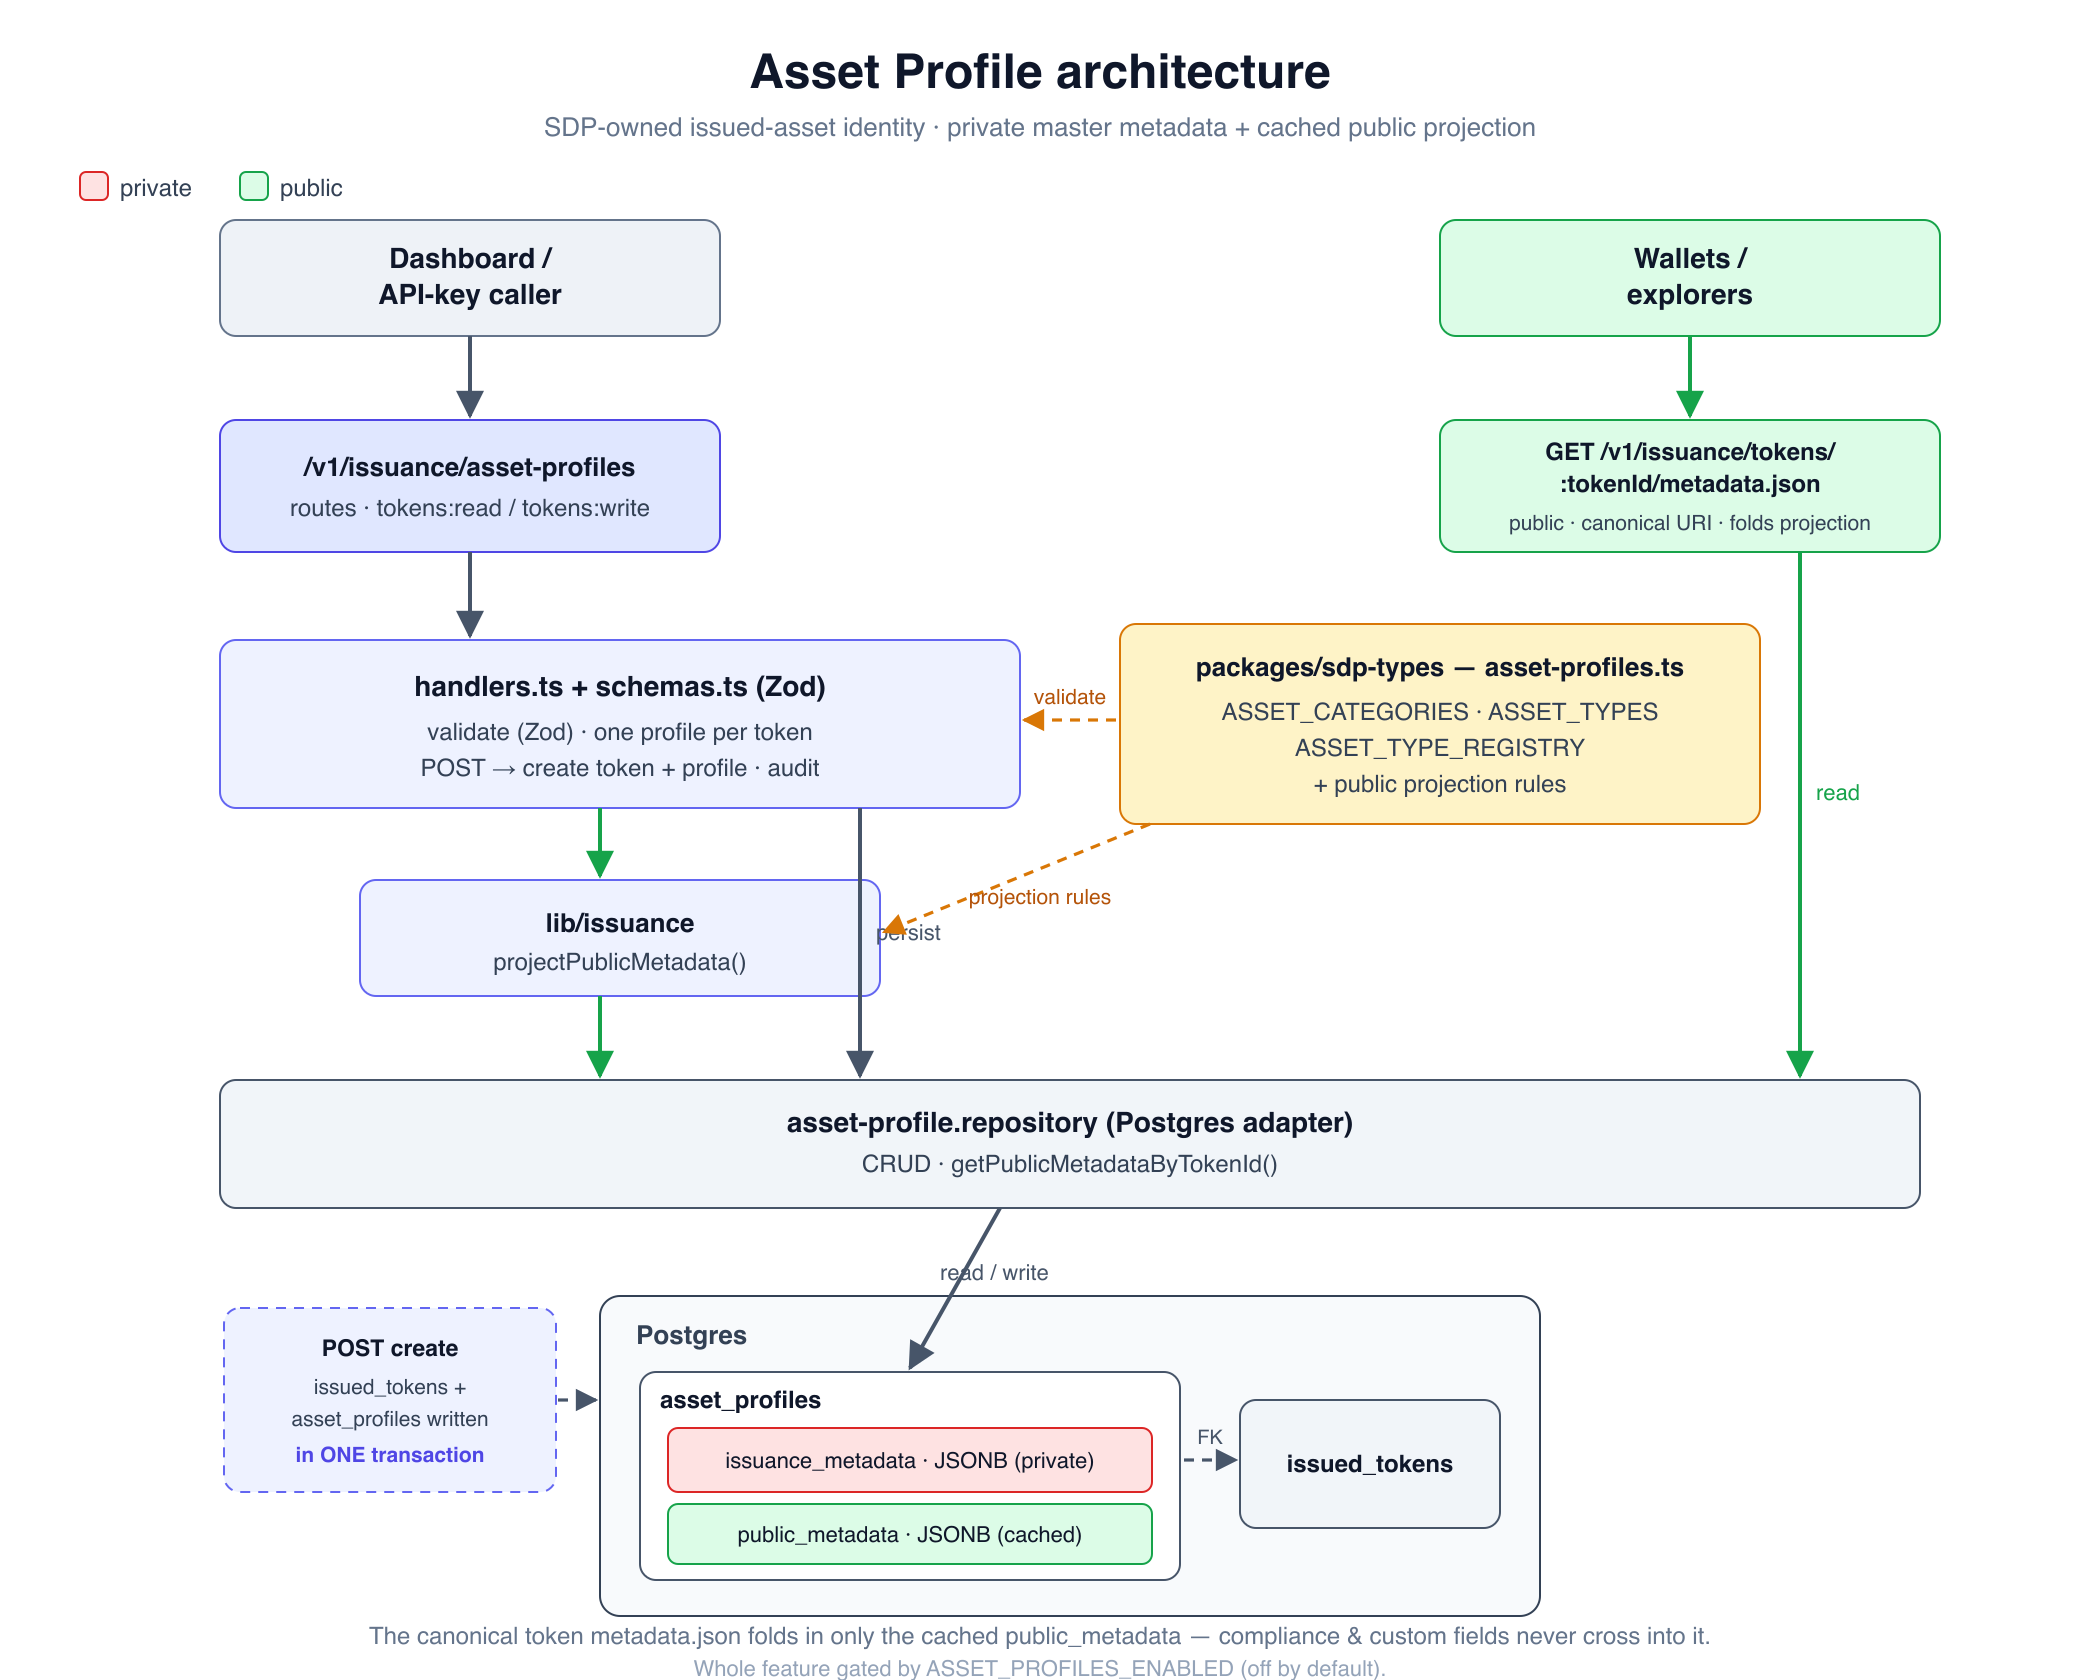
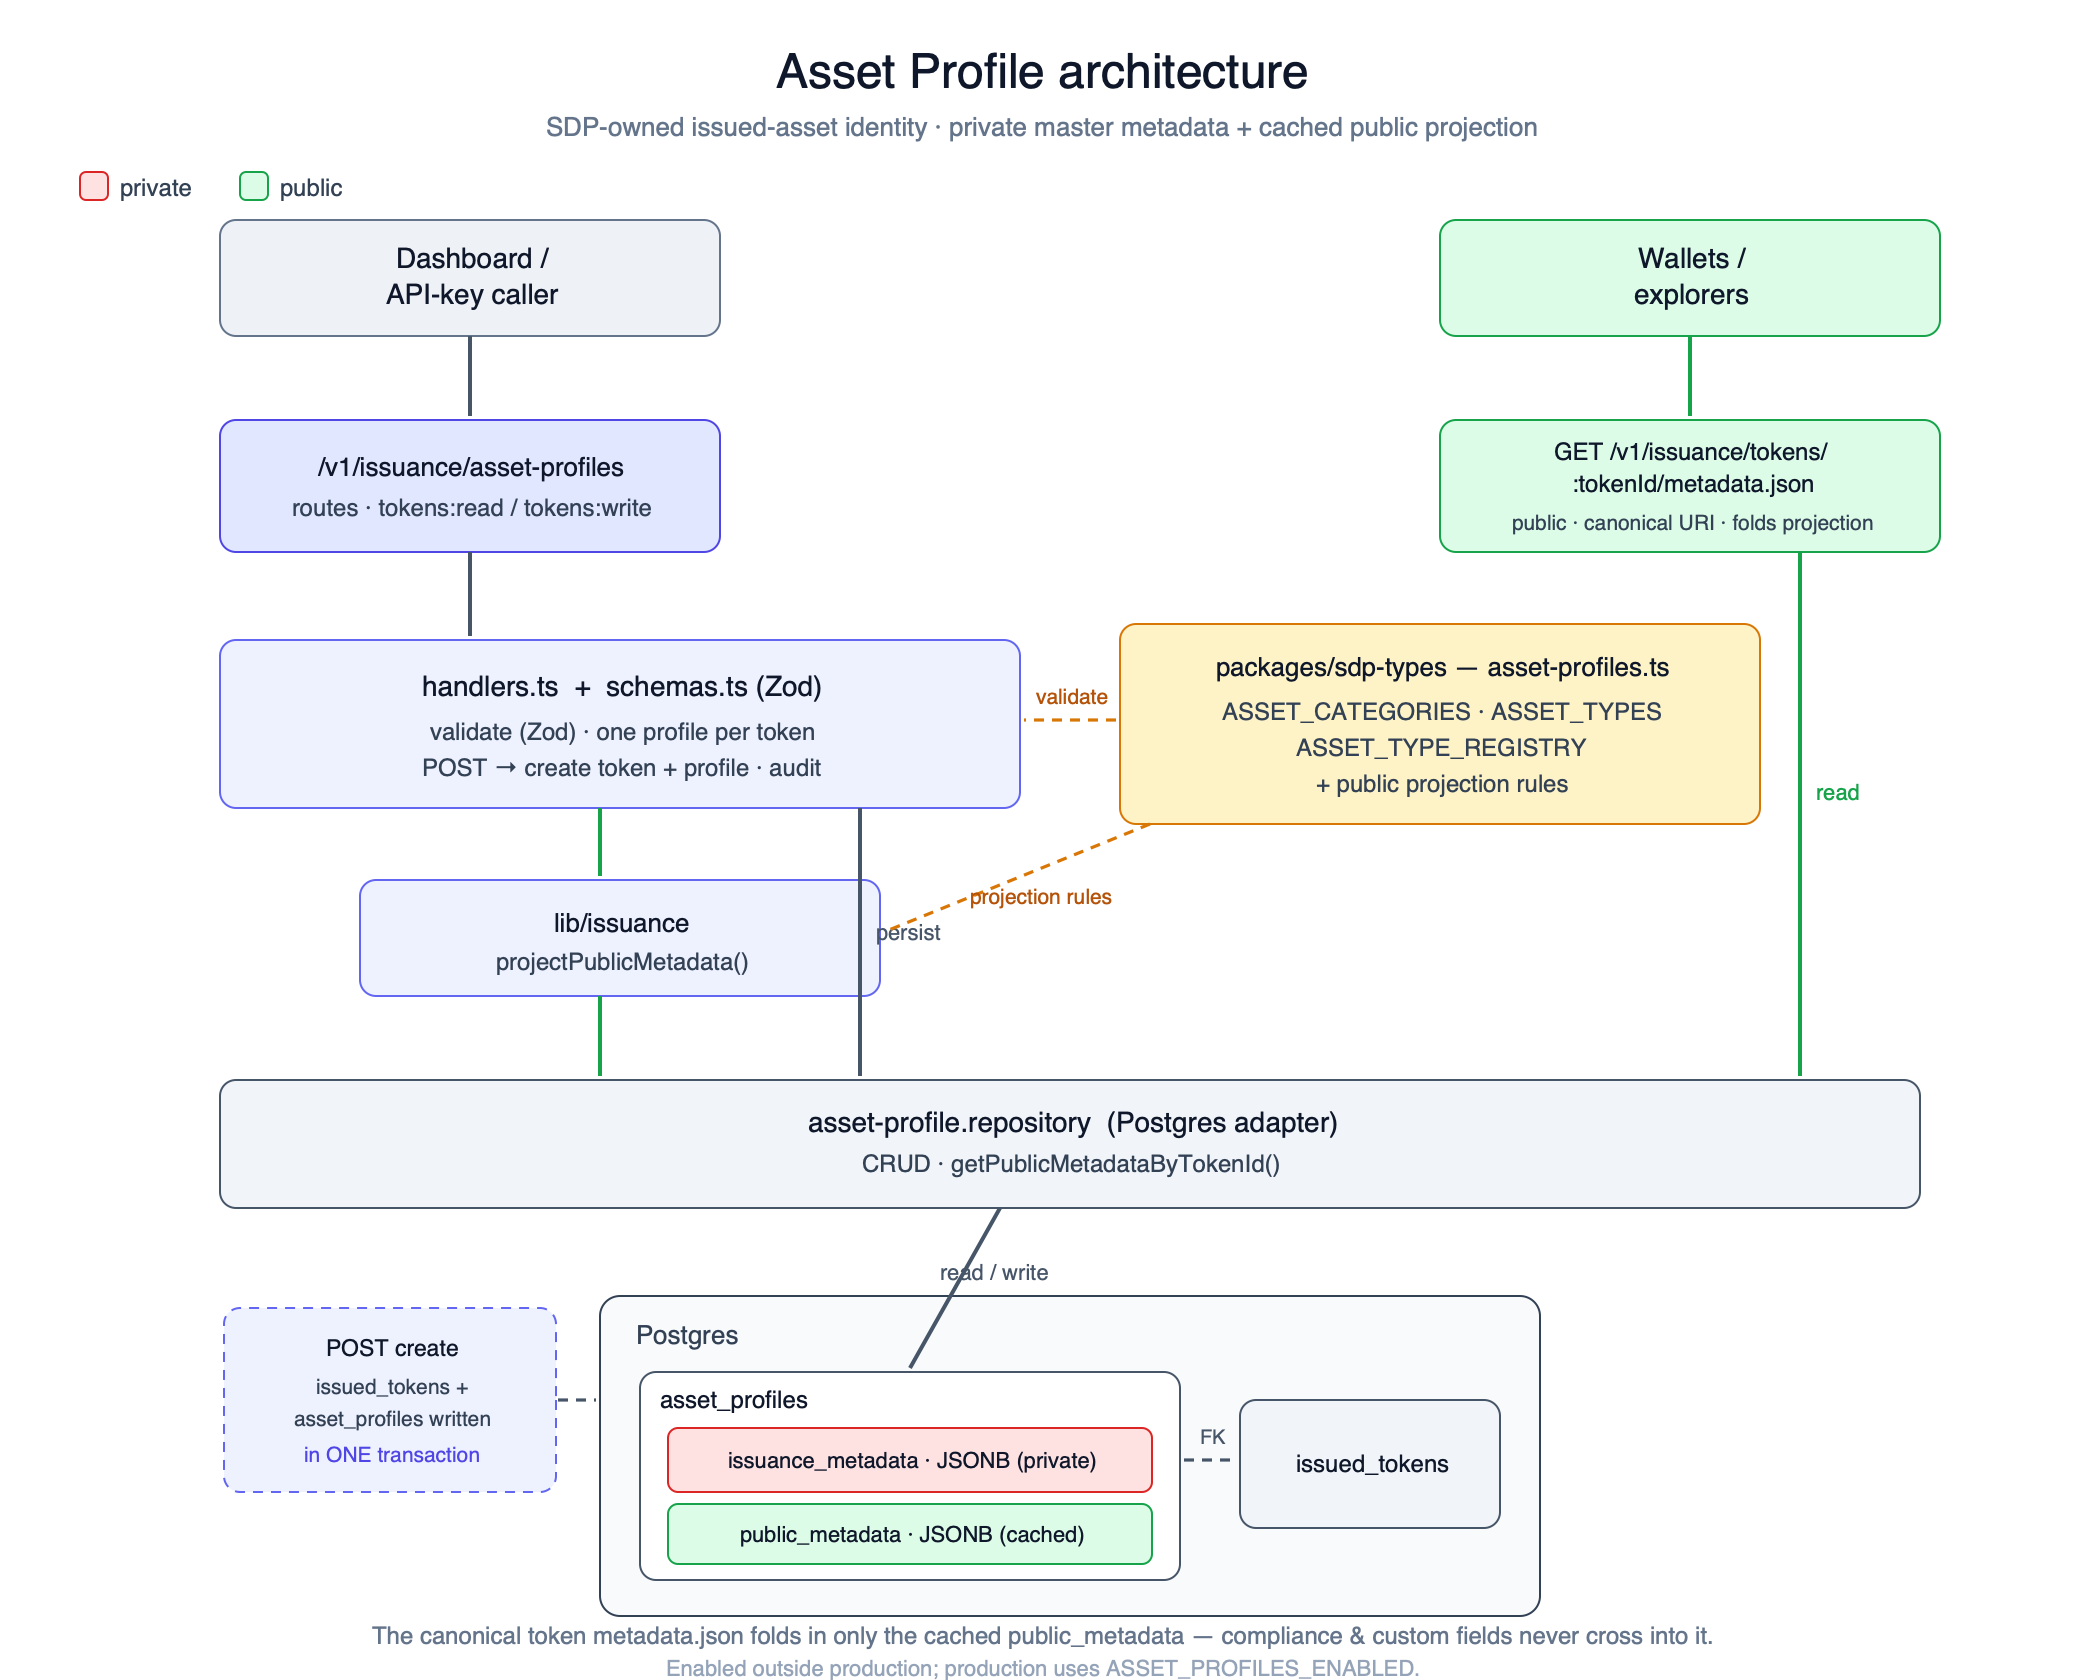
fix: enable non-prod asset profiles and dark-mode wallet cards (#847)
* fix(issuance): enable asset profiles outside production

* fix(web): use theme-aware wallet surfaces

* fix: complete asset profile environment rollout

diff --git a/apps/sdp-web/src/lib/asset-profiles-feature.unit.test.ts b/apps/sdp-web/src/lib/asset-profiles-feature.unit.test.ts
@@ -1,0 +1,73 @@
+import { afterEach, describe, expect, it, vi } from "vitest";
+import { isAssetProfilesUiEnabled } from "./asset-profiles-feature";
+
+afterEach(() => {
+  vi.unstubAllEnvs();
+});
+
+function stubEnvironment({
+  flag = "",
+  node = "production",
+  sdp = "",
+  vercel = "",
+}: {
+  flag?: string;
+  node?: string;
+  sdp?: string;
+  vercel?: string;
+}) {
+  vi.stubEnv("NEXT_PUBLIC_ASSET_PROFILES_ENABLED", flag);
+  vi.stubEnv("NEXT_PUBLIC_SDP_ENVIRONMENT", sdp);
+  vi.stubEnv("NEXT_PUBLIC_VERCEL_ENV", vercel);
+  vi.stubEnv("NODE_ENV", node);
+}
+
+describe("isAssetProfilesUiEnabled", () => {
+  it.each(["development", "test"])("enables local %s builds", (node) => {
+    stubEnvironment({ node });
+    expect(isAssetProfilesUiEnabled()).toBe(true);
+  });
+
+  it.each([
+    "preview",
+    "development",
+    " PREVIEW ",
+  ])("enables Vercel's %s environment even in a production-mode build", (vercel) => {
+    stubEnvironment({ node: "production", vercel });
+    expect(isAssetProfilesUiEnabled()).toBe(true);
+  });
+
+  it("keeps Vercel production disabled without the explicit flag", () => {
+    stubEnvironment({ vercel: "production" });
+    expect(isAssetProfilesUiEnabled()).toBe(false);
+  });
+
+  it.each(["true", " TRUE "])("honors the explicit production opt-in %s", (flag) => {
+    stubEnvironment({ flag, vercel: "production" });
+    expect(isAssetProfilesUiEnabled()).toBe(true);
+  });
+
+  it("enables prebuilt self-hosted development images", () => {
+    stubEnvironment({ node: "production", sdp: "development" });
+    expect(isAssetProfilesUiEnabled()).toBe(true);
+  });
+
+  it("keeps prebuilt self-hosted production images disabled without an opt-in", () => {
+    stubEnvironment({ node: "production", sdp: "production" });
+    expect(isAssetProfilesUiEnabled()).toBe(false);
+  });
+
+  it("honors the prebuilt self-hosted production opt-in", () => {
+    stubEnvironment({ flag: "true", node: "production", sdp: "production" });
+    expect(isAssetProfilesUiEnabled()).toBe(true);
+  });
+
+  it.each([
+    "",
+    "staging",
+    "unexpected",
+  ])("fails closed for the unrecognized deployment marker %s in production-mode builds", (vercel) => {
+    stubEnvironment({ vercel });
+    expect(isAssetProfilesUiEnabled()).toBe(false);
+  });
+});

diff --git a/apps/sdp-api/src/lib/feature-flags.test.ts b/apps/sdp-api/src/lib/feature-flags.test.ts
@@ -1,0 +1,43 @@
+import { describe, expect, it } from "vitest";
+import { isAssetProfilesEnabled } from "./feature-flags";
+
+describe("isAssetProfilesEnabled", () => {
+  it.each([
+    undefined,
+    "",
+    "false",
+    "0",
+    "off",
+  ])("enables Asset Profiles in development when the flag is %s", (flag) => {
+    expect(
+      isAssetProfilesEnabled({
+        ENVIRONMENT: "development",
+        ASSET_PROFILES_ENABLED: flag,
+      })
+    ).toBe(true);
+  });
+
+  it.each([
+    undefined,
+    "",
+    "false",
+    "0",
+    "off",
+  ])("keeps Asset Profiles disabled in production when the flag is %s", (flag) => {
+    expect(
+      isAssetProfilesEnabled({
+        ENVIRONMENT: "production",
+        ASSET_PROFILES_ENABLED: flag,
+      })
+    ).toBe(false);
+  });
+
+  it.each(["1", "true", " TRUE ", "yes", "on"])("honors the production opt-in value %s", (flag) => {
+    expect(
+      isAssetProfilesEnabled({
+        ENVIRONMENT: "production",
+        ASSET_PROFILES_ENABLED: flag,
+      })
+    ).toBe(true);
+  });
+});

diff --git a/apps/sdp-web/src/app/dashboard/custody/[walletId]/wallet-detail-page.unit.test.tsx b/apps/sdp-web/src/app/dashboard/custody/[walletId]/wallet-detail-page.unit.test.tsx
@@ -1,7 +1,9 @@
 import type { CustodyWalletTokenBalance } from "@sdp/types";
 import { Children, type ComponentProps, isValidElement, type ReactNode } from "react";
+import { renderToStaticMarkup } from "react-dom/server";
 import { beforeEach, describe, expect, it, vi } from "vitest";
 import { WalletLabelInlineEditor } from "@/app/dashboard/custody/wallet-label-inline-editor";
+import { getTranslations } from "@/i18n/server";
 
 const { mockAuth, mockLoadWalletActivity, mockRequest } = vi.hoisted(() => ({
   mockAuth: vi.fn(),
@@ -39,7 +41,7 @@ vi.mock("@/app/dashboard/custody/wallet-activity.data", async (importOriginal) =
   };
 });
 
-import WalletDetailPage from "./page";
+import WalletDetailPage, { WalletBalanceSummary, WalletBalancesSection } from "./page";
 
 const solBalance: CustodyWalletTokenBalance = {
   token: "SOL",
@@ -134,6 +136,36 @@ beforeEach(() => {
 });
 
 describe("WalletDetailPage critical path", () => {
+  it("keeps wallet detail data cards on theme-aware surfaces", async () => {
+    const t = await getTranslations();
+    const balanceResult = { balances: [solBalance], error: null };
+    const [summary, populatedBalances, emptyBalances] = await Promise.all([
+      WalletBalanceSummary({
+        balancesPromise: Promise.resolve(balanceResult),
+        providerLabel: "Privy",
+        publicKey: "11111111111111111111111111111111",
+        purposeLabel: null,
+        t,
+      }),
+      WalletBalancesSection({
+        balancesPromise: Promise.resolve(balanceResult),
+        ownedTokensByMintPromise: Promise.resolve(new Map()),
+        t,
+      }),
+      WalletBalancesSection({
+        balancesPromise: Promise.resolve({ balances: [], error: null }),
+        ownedTokensByMintPromise: Promise.resolve(new Map()),
+        t,
+      }),
+    ]);
+    const markup = [summary, populatedBalances, emptyBalances]
+      .map((surface) => renderToStaticMarkup(surface))
+      .join("\n");
+
+    expect(markup.match(/bg-surface-raised/g)).toHaveLength(3);
+    expect(markup).not.toMatch(/\bbg-white(?:\/\d+)?\b/);
+  });
+
   it.each([
     ["org:admin", true],
     ["org:member", false],

diff --git a/apps/sdp-web/src/lib/asset-profiles-feature.ts b/apps/sdp-web/src/lib/asset-profiles-feature.ts
@@ -2,10 +2,28 @@
 //   1. The full-page create wizard at /dashboard/issuance/create.
 //   2. The per-token AssetManagementWorkspace at /dashboard/issuance/[tokenId].
 // Independent of the backend ASSET_PROFILES_ENABLED flag on sdp-api: this only
-// controls whether the UI is shown, while the API still enforces its own flag on
-// every request. Both must be enabled for the feature to work end-to-end.
-// Toggle per environment/branch via NEXT_PUBLIC_ASSET_PROFILES_ENABLED (e.g. in
-// Vercel's Preview scope).
+// controls whether the UI is shown. Recognized non-production contexts are
+// always enabled; production keeps the explicit flag for a controlled rollout.
 export function isAssetProfilesUiEnabled(): boolean {
-  return process.env.NEXT_PUBLIC_ASSET_PROFILES_ENABLED === "true";
+  const sdpEnvironment = process.env.NEXT_PUBLIC_SDP_ENVIRONMENT?.trim().toLowerCase();
+  if (sdpEnvironment === "development") {
+    return true;
+  }
+
+  const vercelEnvironment = process.env.NEXT_PUBLIC_VERCEL_ENV?.trim().toLowerCase();
+  if (vercelEnvironment === "preview" || vercelEnvironment === "development") {
+    return true;
+  }
+
+  const nodeEnvironment = process.env.NODE_ENV?.trim().toLowerCase();
+  if (
+    !sdpEnvironment &&
+    !vercelEnvironment &&
+    (nodeEnvironment === "development" || nodeEnvironment === "test")
+  ) {
+    return true;
+  }
+
+  const explicitFlag = process.env.NEXT_PUBLIC_ASSET_PROFILES_ENABLED?.trim().toLowerCase();
+  return explicitFlag === "true";
 }

diff --git a/apps/sdp-web/playwright/tests/issuance.e2e.spec.ts b/apps/sdp-web/playwright/tests/issuance.e2e.spec.ts
@@ -257,6 +257,9 @@ async function createDraftViaWizard(page: Page, options: CreateDraftOptions): Pr
   await page
     .getByPlaceholder("Describe what this asset represents.")
     .fill("Created by Playwright issuance e2e.");
+  await page.getByRole("tab", { name: "Operational", exact: true }).click();
+  await page.getByRole("combobox").click();
+  await page.getByRole("option").filter({ hasText: options.treasuryWalletId }).click();
   await page.getByRole("button", { name: "Continue", exact: true }).click();
 
   // Public information — defaults are fine.
@@ -268,7 +271,18 @@ async function createDraftViaWizard(page: Page, options: CreateDraftOptions): Pr
   const dialog = page.getByRole("dialog", { name: "Create asset draft" });
   await expect(dialog).toBeVisible();
   await page.waitForTimeout(400);
-  await dialog.getByRole("button", { name: "Create draft", exact: true }).click();
+  // Confirmation starts an async server action, then routes to the new token.
+  // Wait for that navigation so the caller cannot abort the create request by
+  // immediately navigating back to the overview.
+  await Promise.all([
+    page.waitForURL(
+      (url) =>
+        url.pathname.startsWith("/dashboard/issuance") &&
+        url.pathname !== "/dashboard/issuance/create",
+      { timeout: 120_000 }
+    ),
+    dialog.getByRole("button", { name: "Create draft", exact: true }).click(),
+  ]);
 }
 
 // The legacy create-token modal: template → identity → features → create.

diff --git a/packages/sdp-env-config/src/fields.ts b/packages/sdp-env-config/src/fields.ts
@@ -617,6 +617,18 @@ export const FIELDS: EnvField[] = [
     derive: (v) => v.SOLANA_NETWORK ?? "devnet",
   },
   {
+    key: "ASSET_PROFILES_ENABLED",
+    section: "advanced",
+    kind: "select",
+    label: "Asset Profiles production opt-in",
+    defaultValue: "false",
+    options: [
+      { value: "false", label: "Disabled" },
+      { value: "true", label: "Enabled" },
+    ],
+    help: "Development is always enabled. This setting controls production only.",
+  },
+  {
     key: "PAYMENTS_RECURRING_COLLECTION_ENABLED",
     section: "advanced",
     kind: "text",

diff --git a/packages/sdp-env-config/src/generate.test.ts b/packages/sdp-env-config/src/generate.test.ts
@@ -92,6 +92,17 @@ test("NEXT_PUBLIC_SOLANA_NETWORK is derived from SOLANA_NETWORK", () => {
   assert.match(env, /^NEXT_PUBLIC_SOLANA_NETWORK=mainnet-beta$/m);
 });
 
+test("Asset Profiles remains an explicit production opt-in", () => {
+  const disabled = generateEnv(defaultValues());
+  assert.match(disabled, /^ASSET_PROFILES_ENABLED=false$/m);
+
+  const enabled = generateEnv({
+    ...defaultValues(),
+    ASSET_PROFILES_ENABLED: "true",
+  });
+  assert.match(enabled, /^ASSET_PROFILES_ENABLED=true$/m);
+});
+
 test("generated .env covers every base key in infra/self-hosted/.env.example", () => {
   const env = generateEnv(defaultValues());
   const emitted = new Set(

diff --git a/apps/sdp-web/src/app/dashboard/custody/[walletId]/page.tsx b/apps/sdp-web/src/app/dashboard/custody/[walletId]/page.tsx
@@ -336,7 +336,7 @@ export default async function WalletDetailPage({
   );
 }
 
-async function WalletBalanceSummary({
+export async function WalletBalanceSummary({
   balancesPromise,
   providerLabel,
   publicKey,
@@ -353,7 +353,7 @@ async function WalletBalanceSummary({
   const totalBalance = balancesResult.error ? null : resolveTotalBalance(balancesResult.balances);
 
   return (
-    <section className="overflow-hidden rounded-2xl border border-border-default bg-white">
+    <section className="overflow-hidden rounded-2xl border border-border-default bg-surface-raised">
       <div className="space-y-6 p-6">
         <div>
           <p className="text-xs font-medium tracking-[0.14em] text-muted uppercase">
@@ -389,7 +389,7 @@ async function WalletBalanceSummary({
   );
 }
 
-async function WalletBalancesSection({
+export async function WalletBalancesSection({
   balancesPromise,
   ownedTokensByMintPromise,
   t,
@@ -414,7 +414,7 @@ async function WalletBalancesSection({
       ) : null}
 
       {balances.length > 0 ? (
-        <div className="overflow-hidden rounded-2xl border border-border-default bg-white">
+        <div className="overflow-hidden rounded-2xl border border-border-default bg-surface-raised">
           {balances.map((balance) => {
             const ownedToken =
               balance.token === "SOL" ? null : (ownedTokensByMint.get(balance.mint) ?? null);
@@ -431,7 +431,7 @@ async function WalletBalancesSection({
           })}
         </div>
       ) : (
-        <div className="rounded-2xl border border-border-default bg-white px-4 py-4 text-sm text-secondary">
+        <div className="rounded-2xl border border-border-default bg-surface-raised px-4 py-4 text-sm text-secondary">
           {t("DashboardCustody.noTrackedBalances")}
         </div>
       )}

diff --git a/apps/sdp-api/src/lib/feature-flags.ts b/apps/sdp-api/src/lib/feature-flags.ts
@@ -11,6 +11,8 @@ export function isRecurringPaymentCollectionEnabled(
   return isTruthyFlag(env.PAYMENTS_RECURRING_COLLECTION_ENABLED);
 }
 
-export function isAssetProfilesEnabled(env: Pick<Env, "ASSET_PROFILES_ENABLED">): boolean {
-  return isTruthyFlag(env.ASSET_PROFILES_ENABLED);
+export function isAssetProfilesEnabled(
+  env: Pick<Env, "ASSET_PROFILES_ENABLED" | "ENVIRONMENT">
+): boolean {
+  return env.ENVIRONMENT === "development" || isTruthyFlag(env.ASSET_PROFILES_ENABLED);
 }

diff --git a/apps/sdp-api/src/routes/asset-profiles/index.ts b/apps/sdp-api/src/routes/asset-profiles/index.ts
@@ -16,7 +16,8 @@ import {
 
 const assetProfiles = new Hono<{ Bindings: Env }>();
 
-// Gate routes behind feature flag; off by default.
+// Non-production environments always expose Asset Profiles. Production keeps
+// the explicit feature flag so rollout remains independently controlled.
 async function requireAssetProfilesFeature(c: Context<{ Bindings: Env }>, next: Next) {
   if (!isAssetProfilesEnabled(c.env)) {
     throw new AppError("FORBIDDEN", "Asset Profiles are not enabled for this environment");

diff --git a/apps/sdp-api/src/types/env.d.ts b/apps/sdp-api/src/types/env.d.ts
@@ -184,7 +184,7 @@ export interface Env {
   PAYMENTS_RECURRING_COLLECTION_BATCH_SIZE?: string;
   PAYMENTS_RECURRING_COLLECTION_RETRY_AFTER_MINUTES?: string;
 
-  // Asset Profiles backend feature flag
+  // Asset Profiles production opt-in; development is always enabled.
   ASSET_PROFILES_ENABLED?: string;
 
   // Compliance providers